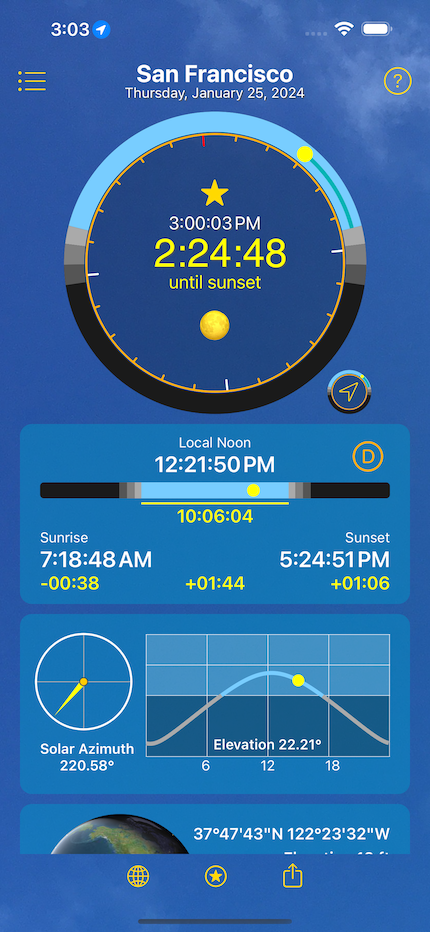
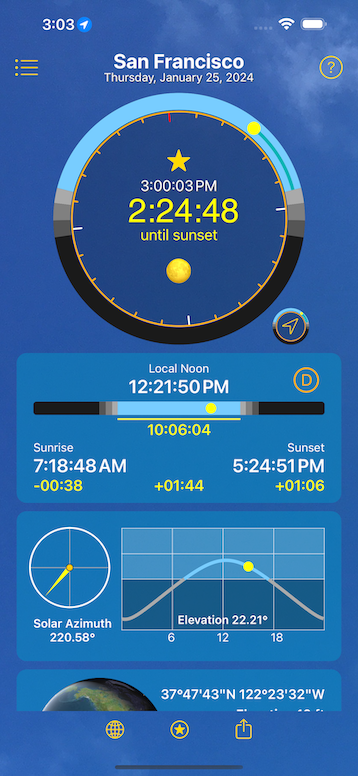
More changes battling styles.

diff --git a/maxdaylight/v3.0/index.html b/maxdaylight/v3.0/index.html
@@ -102,10 +102,6 @@
 					<h4>What's new in Version 3.0?</h4>
 					<p>Version 3.0 is super improved over Version 2.1. Lunar data, 14 new graphic data panels, and 100+ enhancements!  3X more power efficient than Version 2.1.</p>
 					<p>Scroll down to see each of the 14 new data panels. You can tap any panel and access additional features.</p>
-	
-					<p><a href="https://apps.apple.com/us/app/id1617201197"><img width=150  src="./images/Download_on_the_App_Store_Badge_US-UK_RGB_blk_092917.svg"></a>
-					</p>
-
 				</div>
 				
 			</div>
@@ -114,7 +110,7 @@
 			<div class="container">
 				<h3>Sun Panel</center></h3>
 				<br/>
-				<img src="./images/cell.0.png">
+				<img class="collection-cell" src="./images/cell.0.png">
 
 				<p>Displays sunrise, noon, sunset, length of day and changes from previous day. Tap to explore at different dates and times.</p>
 			</div>
@@ -123,7 +119,7 @@
 			<div class="container">
 				<h3>Solar Elevation Panel</center></h3>
 				<br/>
-				<img src="./images/cell.1.png">
+				<img class="collection-cell" src="./images/cell.1.png">
 
 				<p>Displays solar elevation and azimuth. Tap to explore at different dates and times.</p>
 			</div>

diff --git a/maxdaylight/v3.0/au/index.html b/maxdaylight/v3.0/au/index.html
@@ -85,9 +85,6 @@
 					<p>Version 3.0 is super improved over Version 2.1. Lunar data, 14 new graphic data panels, and 100+ enhancements!  3X more power efficient than Version 2.1.</p>
 					<p>Scroll down to see each of the 14 new data panels. You can tap any panel and access additional features.</p>
 	
-					<p><a href="https://apps.apple.com/us/app/id1617201197"><img width=150  src="./images/Download_on_the_App_Store_Badge_US-UK_RGB_blk_092917.svg"></a>
-					</p>
-
 				</div>
 				
 			</div>

diff --git a/stylesheets/style359.css b/stylesheets/style359.css
@@ -213,7 +213,7 @@ table {
 }
 
 .collection-cell {
-	max-width: 350px;
+	max-width: 250px;
 }
 
 .container {
